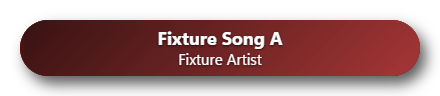
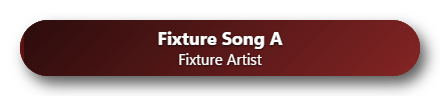
OBS overlay pill: brighter played part, darker remaining part (owner G2)
Owner, 4 October: "the progress left should be darken abit and the already progress should be
abit brither". The pill (plain link and saved Pill looks) draws the played layer with
saturate(1.3) brightness(1.15) and the remaining layer with grayscale(.75) brightness(.45) at
alpha 0.6 (was grayscale(.75) at 0.5).

A-PLAIN baselines re-captured from this build (artifacts/obs-overlay/20261004T021147Z);
A-PLAIN + A-LOOK pill cases 207/207 (20261004T021330Z). B-LOOK's per-theme pill oracle now
finds the edge by saturation + luminance; on the real OBS stills it lands within 1 px and the
step strength rose from 0.143 to 0.23 (20261004T021604Z vs 20261004T015540Z).

Changed region(s): [[0.4727, 0.1875, 0.975, 0.8125]]

diff --git a/src/Nativune/ObsOverlayPage.js b/src/Nativune/ObsOverlayPage.js
@@ -419,13 +419,14 @@ function drawArt(img) {
   const c = colour.getContext('2d');
   c.clearRect(0, 0, w, h);
   if (pillTheme) {
-    // Preserve the compatibility pill's exact draw/filter arithmetic, including fractional CSS heights.
-    c.filter = `blur(${blurCss}px) saturate(1.3)`;
+    // Owner, 4 October (G2): the played part is a bit brighter and the remaining part a bit darker, so progress reads
+    // clearly. This intentionally changes the plain link too (A-PLAIN re-baselined from this build).
+    c.filter = `blur(${blurCss}px) saturate(1.3) brightness(1.15)`;
     c.drawImage(img, (w - dw) / 2, (h - dh) / 2, dw, dh);
     const g = grey.getContext('2d');
     g.clearRect(0, 0, w, h);
-    g.filter = `blur(${blurCss}px) grayscale(.75)`;
-    g.globalAlpha = 0.5;
+    g.filter = `blur(${blurCss}px) grayscale(.75) brightness(.45)`;
+    g.globalAlpha = 0.6;
     g.drawImage(img, (w - dw) / 2, (h - dh) / 2, dw, dh);
   } else {
     c.filter = `blur(${blurCss * blurRasterScale}px) brightness(${geo.theme === 'card' ? .35 : .4}) saturate(1.2)`;
